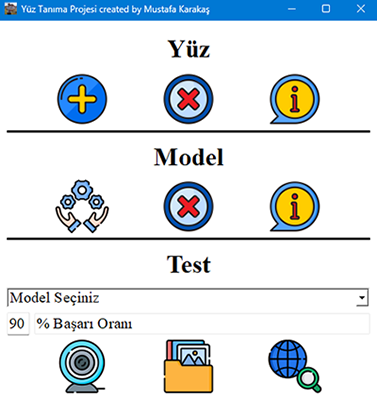
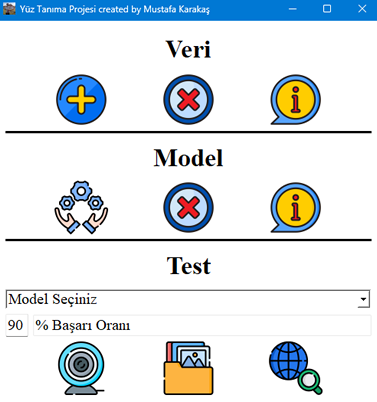
README.md mainScreen and modelDelete up

diff --git a/README.md b/README.md
@@ -2,9 +2,14 @@
 
 ## GUI Ekran Görüntüleri
 
-| Ana Ekran                               | Yüz Ekle                              |
-|-----------------------------------------|---------------------------------------|
-| ![](utils/projectImages/mainScreen.png) | ![](utils/projectImages/addFace.png)  |
+| Ana Ekran                               | Veri Ekle                            |
+|-----------------------------------------|--------------------------------------|
+| ![](utils/projectImages/mainScreen.png) | ![](utils/projectImages/addFace.png) |
+
+
+| Veri Sil                                | Veri Bilgisi                             |
+|-----------------------------------------|------------------------------------------|
+| ![](utils/projectImages/modelTrain.png) | ![](utils/projectImages/modelDelete.png) |
 
 | Model Eğitimi                           | Model Sil                                |
 |-----------------------------------------|------------------------------------------|
